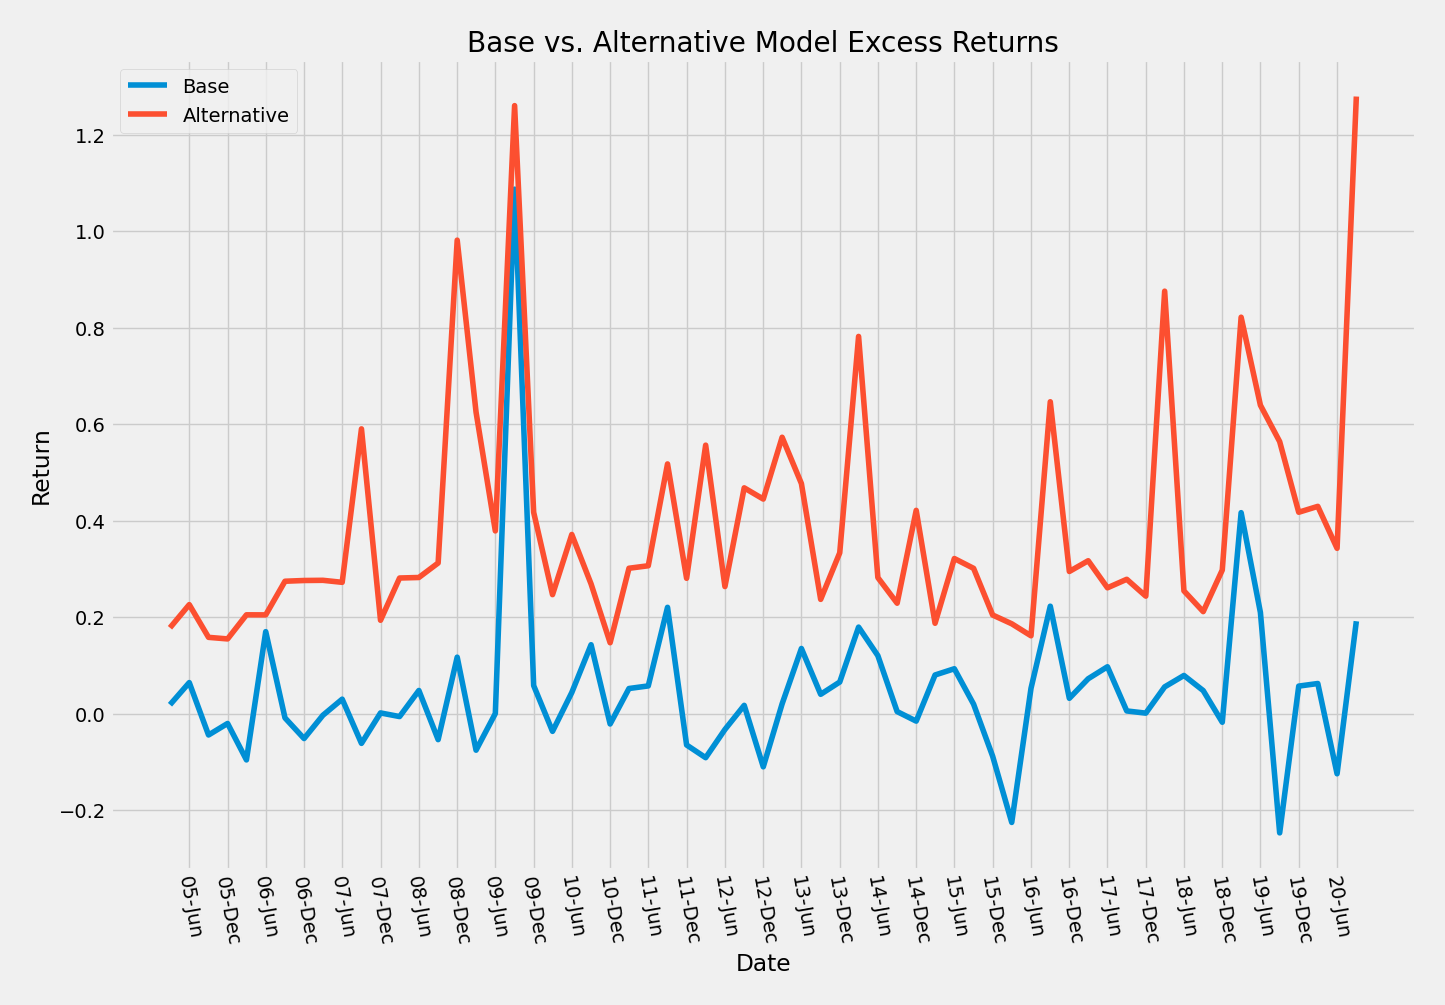
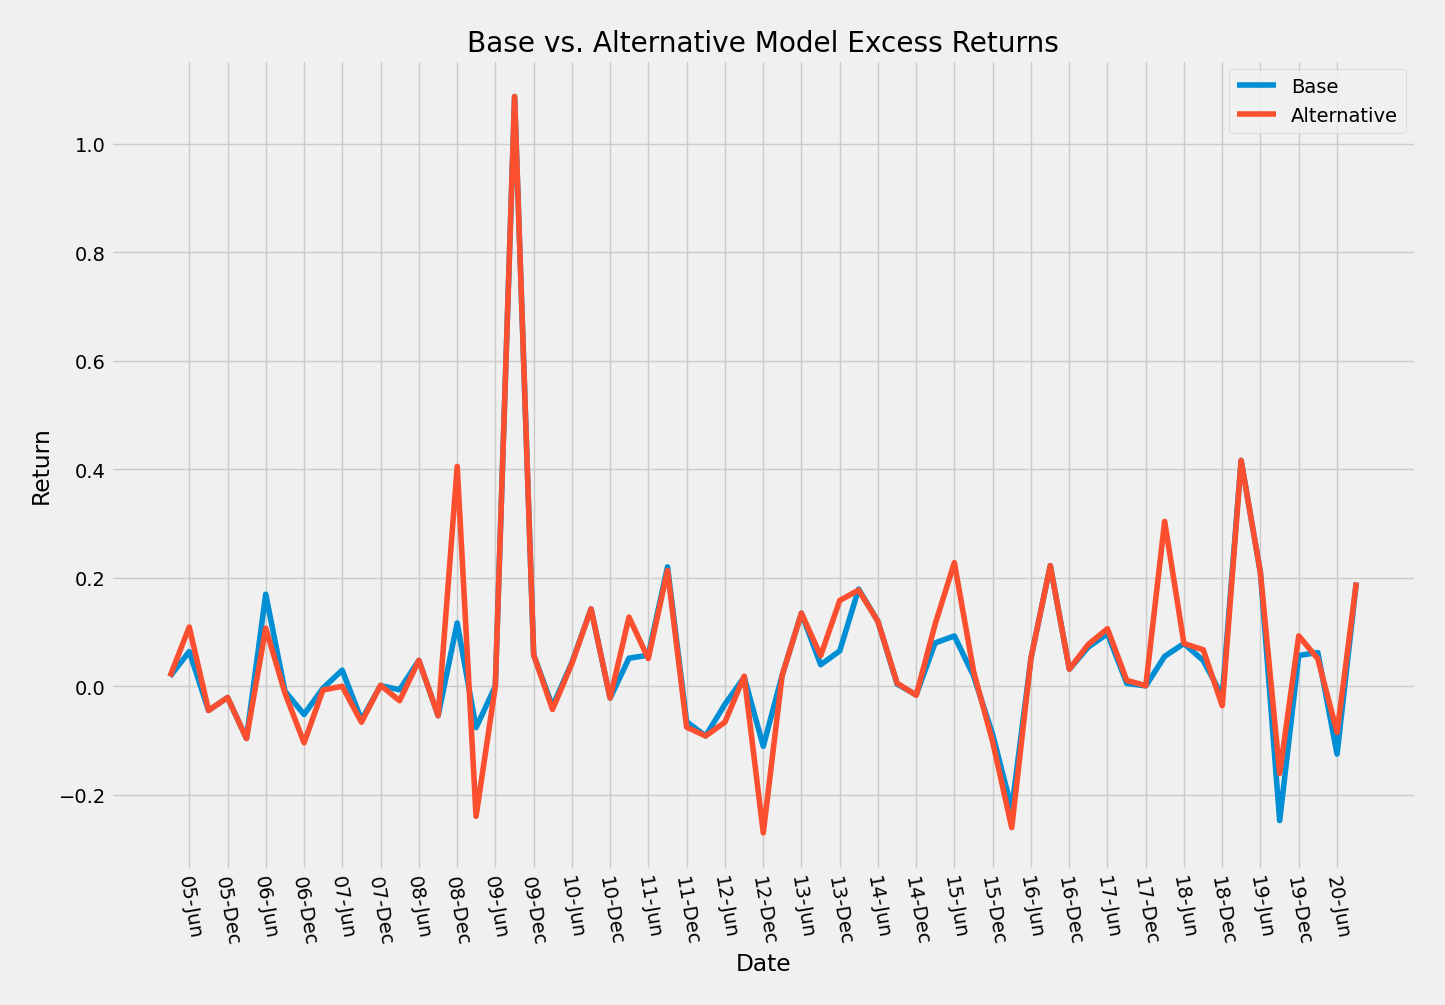
Fixed typo

diff --git a/src/visualization/base_alternative_returns.py b/src/visualization/base_alternative_returns.py
@@ -14,7 +14,7 @@ mod_returns_data = pd.read_table(DATA_PATH.joinpath('modified_alpha_performance_
 
 fig = plt.figure(figsize=(15,10))
 plt.plot(returns_data.date, returns_data.actual_ret, label='Base')
-plt.plot(mod_returns_data.date, mod_returns_data.expected_ret, label='Alternative')
+plt.plot(mod_returns_data.date, mod_returns_data.actual_ret, label='Alternative')
 plt.title('Base vs. Alternative Model Excess Returns')
 plt.legend()
 plt.ylabel('Return')
